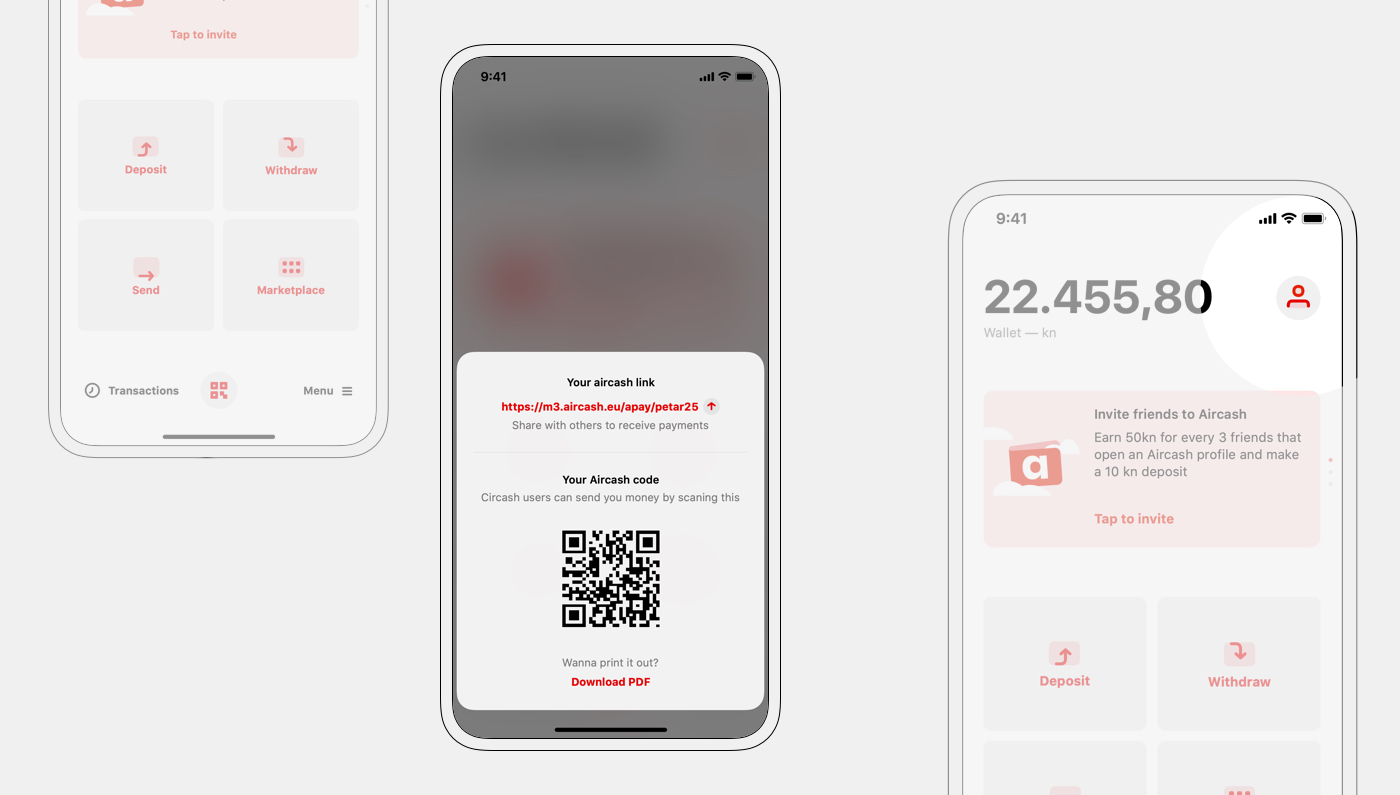
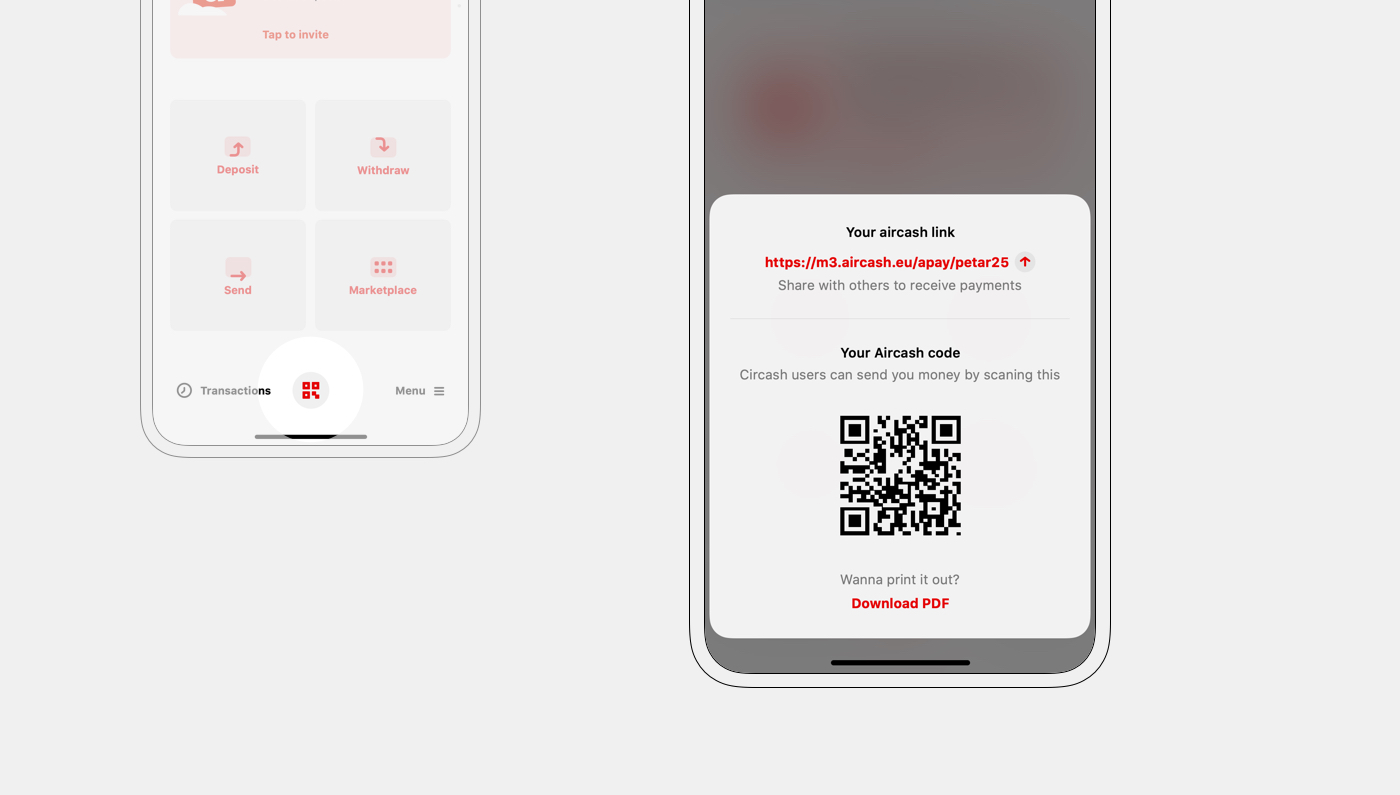
aircash case 2

diff --git a/aircash.html b/aircash.html
@@ -101,12 +101,43 @@
 				<img src="asseti/Projekti/Aircash/aircash_menu.jpg" alt="Aircash side menu">
 
 				<p>
-					A unique Aircash-code was added to the homescreen —
+					A user-specific Aircash-code was added to the homescreen —
 					incentivizing user-to-user transactions and increasing revenue.
-					App and user settings were moved to the profile section, accessible from the homescreen.
+					Other users can open a link or scan a QR code to send payments.
 				</p>
 
-				<img src="asseti/Projekti/Aircash/aircash_code.jpg" alt="Aircash app homescreen and settings">
+				<img src="asseti/Projekti/Aircash/aircash_code.jpg" alt="Aircash code">
+
+				<p>
+					App and user settings were moved to the profile section, accessible from the homescreen.
+				</p>
+				<img src="asseti/Projekti/Aircash/aircash_settings.jpg" alt="Aircash settings">
+			</section>
+
+			<section class="blok">
+				<h3>Transactions</h3>
+				<p>
+					Users can instantly send money anywhere in the world, together with a nice message.
+				</p>
+				<img src="asseti/Projekti/Aircash/aircash_placeholder.png" alt="Aircash app homescreen and settings">
+
+				<p>
+					Free top-up is available with either a card or with cash — at thousands of locations.
+					This is a feature most competitors don't have — they limit their users with top-up fees or
+					a small location number.
+				</p>
+				<img src="asseti/Projekti/Aircash/aircash_placeholder.png" alt="Aircash app homescreen and settings">
+
+				<p>
+					Through partnership with an Intesa Sanpaolo group bank, PBZ, Aircash users can  use
+					ATMs for money withdrawal — without a bank account.
+					Withdrawal is done by entering a code generated in the app — faster than using a regular card.
+				</p>
+				<img src="asseti/Projekti/Aircash/aircash_placeholder.png" alt="Aircash app homescreen and settings">
+				<p>
+					Money can also be withdrawn at the aforementioned locations.
+					A barcode is generated and shown to the employee — users get cash in return.
+				</p>
 			</section>
 
 			<section class="blok">
@@ -126,11 +157,15 @@
 				</p>
 				<img src="asseti/Projekti/Aircash/aircash_placeholder.png" alt="Aircash app homescreen and settings">
 				<p>
-					Various versions showing the progress of the feature — design was reworked after early testing.
+					Various versions show design progression — improving with testing feedback.
 				</p>
 				<img src="asseti/Projekti/Aircash/aircash_placeholder.png" alt="Aircash app homescreen and settings">
 
 			</section>
+
+
+
+
 			<section class="blok">
 				<h3>Increasing userbase through referalls</h3>
 				<p>
@@ -146,32 +181,6 @@
 				</p>
 				<img src="asseti/Projekti/Aircash/aircash_placeholder.png" alt="Aircash app homescreen and settings">
 
-			</section>
-
-			<section class="blok">
-				<h3>Transactions</h3>
-				<p>
-					Users can instantly send money anywhere in the world, together with a nice message.
-				</p>
-				<img src="asseti/Projekti/Aircash/aircash_placeholder.png" alt="Aircash app homescreen and settings">
-
-				<p>
-					Users can top-up with either a card or with cash — for free — at more than 1000 locations in Croatia.
-					This is a feature most competitors don't have — they limit their users with top-up fees or
-					a small location number.
-				</p>
-				<img src="asseti/Projekti/Aircash/aircash_placeholder.png" alt="Aircash app homescreen and settings">
-
-				<p>
-					Through partnership with an Intesa Sanpaolo group bank, PBZ, Aircash users can  use
-					ATMs for money withdrawal — without a bank account.
-					Withdrawal is done by entering a code generated in the app — faster than using a regular card.
-				</p>
-				<img src="asseti/Projekti/Aircash/aircash_placeholder.png" alt="Aircash app homescreen and settings">
-				<p>
-					Money can also be withdrawn at the aforementioned thousands of locations.
-					A barcode is generated and shown to the employee.
-				</p>
 			</section>
 
 			<section class="blok">
@@ -203,6 +212,10 @@
 				</p>
 				<img src="asseti/Projekti/Aircash/aircash_placeholder.png" alt="Aircash app homescreen and settings">
 			</section>
+
+			</br>
+			<img src="asseti/Projekti/Aircash/aircash_placeholder.png" alt="Aircash app homescreen and settings">
+
 
 			</section>
 	</section>
